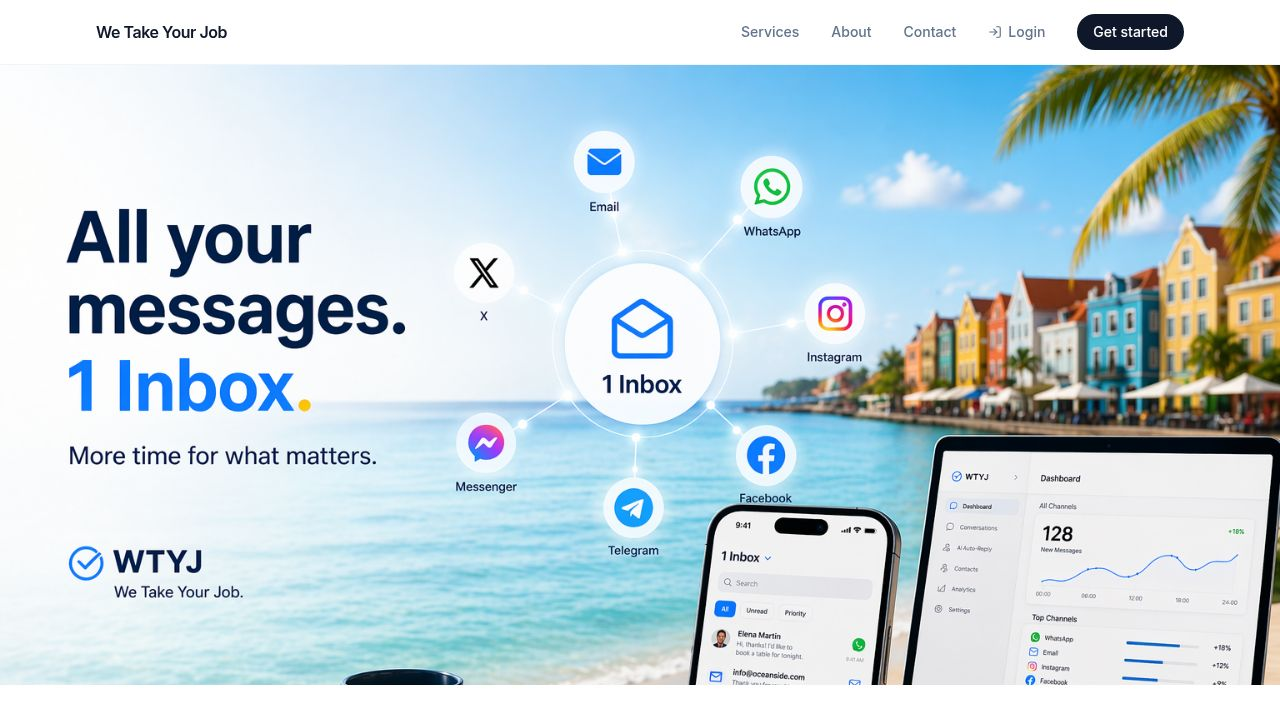
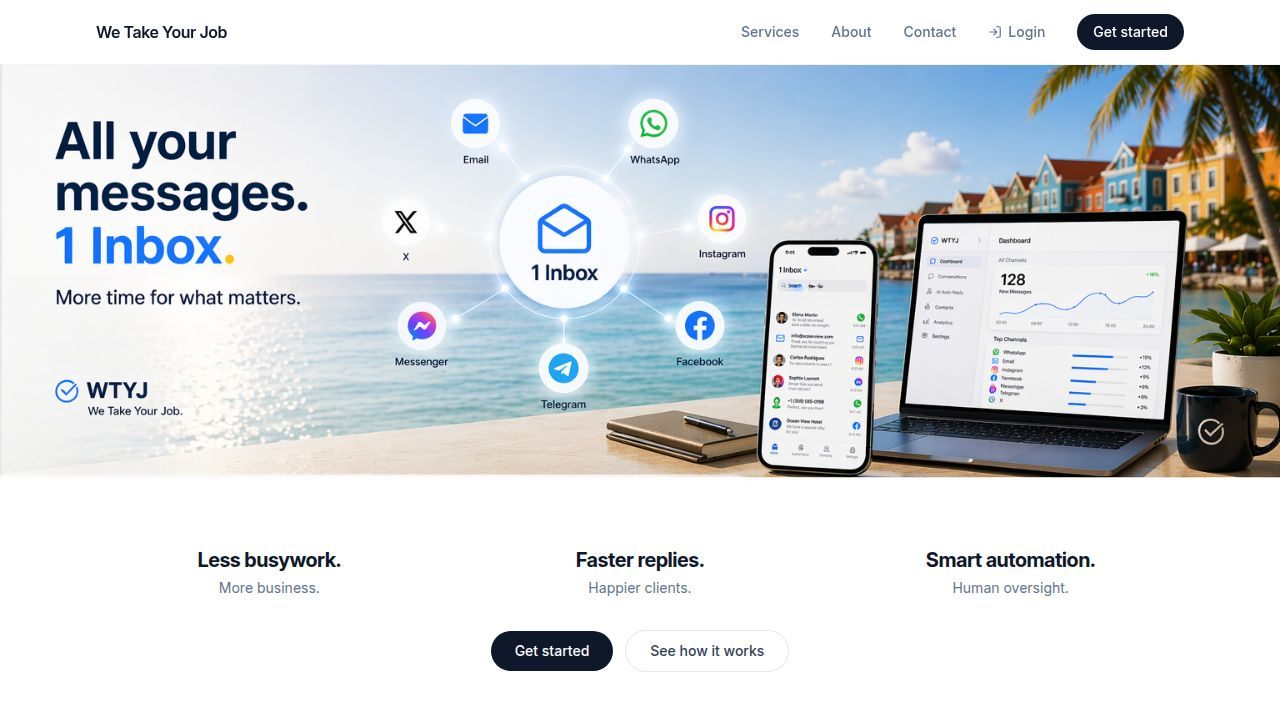
Improve homepage flow and reduce white space for a cohesive campaign feel
Restructure the HomePage component to integrate sections, reduce gaps, and enhance visual storytelling, moving the "More time. More clients. More life." statement higher and adding a clear CTA before the footer.

Replit-Commit-Author: Agent
Replit-Commit-Session-Id: 08e2b3a7-a9eb-4cfd-b304-9048fec0dca6
Replit-Commit-Checkpoint-Type: full_checkpoint
Replit-Commit-Event-Id: 7f1c7958-072e-4f59-8a27-320793cb8721
Replit-Commit-Screenshot-Url: https://storage.googleapis.com/screenshot-production-us-central1/296fe101-68fd-4241-8d09-92c4bfb12f04/08e2b3a7-a9eb-4cfd-b304-9048fec0dca6/kCiwkWl
Replit-Helium-Checkpoint-Created: true

diff --git a/artifacts/wetakeyourjob/src/pages/HomePage.tsx b/artifacts/wetakeyourjob/src/pages/HomePage.tsx
@@ -6,7 +6,7 @@ export default function HomePage() {
     <>
       <Seo />
 
-      {/* ── SECTION 1 — HERO ─────────────────────────────────────── */}
+      {/* ── HERO ─────────────────────────────────────────────────── */}
       <section className="w-full bg-[#edf5fb]" data-testid="hero-panel">
         <h1 className="sr-only" data-testid="hero-title">
           All your messages. 1 Inbox.
@@ -22,32 +22,41 @@ export default function HomePage() {
         />
       </section>
 
-      {/* ── SECTION 2 — SUPPORTING BRAND STRIP ───────────────────── */}
-      <section className="bg-white py-10 sm:py-14">
-        <div className="wrap mx-auto max-w-3xl text-center">
-          <p
-            className="mb-6 text-lg text-slate-500 sm:text-xl leading-relaxed"
-            data-testid="hero-subtitle"
-          >
-            Less busywork. More business.<br className="hidden sm:inline" />
-            {' '}Faster replies. Happier clients.<br className="hidden sm:inline" />
-            {' '}Smart automation. Human oversight.
-          </p>
-          <div className="flex flex-wrap items-center justify-center gap-3">
+      {/* ── VALUE PROPOSITION ────────────────────────────────────── */}
+      <section className="bg-white py-12 sm:py-16">
+        <div className="wrap mx-auto max-w-4xl">
+          <div className="grid gap-6 sm:grid-cols-3 text-center">
+            <div>
+              <h2 className="text-lg font-bold text-slate-900 sm:text-xl">Less busywork.</h2>
+              <p className="mt-1 text-sm text-slate-500" data-testid="hero-subtitle">More business.</p>
+            </div>
+            <div>
+              <h2 className="text-lg font-bold text-slate-900 sm:text-xl">Faster replies.</h2>
+              <p className="mt-1 text-sm text-slate-500">Happier clients.</p>
+            </div>
+            <div>
+              <h2 className="text-lg font-bold text-slate-900 sm:text-xl">Smart automation.</h2>
+              <p className="mt-1 text-sm text-slate-500">Human oversight.</p>
+            </div>
+          </div>
+          <div className="mt-8 flex flex-wrap items-center justify-center gap-3">
             <Button to="/contact" data-testid="button-hero-cta">Get started</Button>
             <Button to="/services" variant="secondary" data-testid="button-hero-services">See how it works</Button>
           </div>
         </div>
       </section>
 
-      {/* ── SECTION 3 — SUPPORTING PANELS ────────────────────────── */}
-      <section className="bg-slate-50/60 py-16 sm:py-20">
+      {/* ── PANEL SHOWCASE ───────────────────────────────────────── */}
+      <section className="bg-slate-50 py-12 sm:py-16">
         <div className="wrap">
-          <div className="grid gap-4 sm:grid-cols-2 lg:grid-cols-3">
+          <p className="mb-8 text-center text-[11px] font-semibold uppercase tracking-widest text-slate-400">
+            What we handle for you
+          </p>
+          <div className="grid gap-3 sm:grid-cols-2 lg:grid-cols-3">
             <img
               src="/wtyj_panel_inbox.png"
               alt="One Inbox. Every Channel. Total Control."
-              className="w-full h-auto rounded-2xl"
+              className="w-full h-auto rounded-xl shadow-sm"
               width="512"
               height="250"
               loading="lazy"
@@ -55,7 +64,7 @@ export default function HomePage() {
             <img
               src="/wtyj_panel_busywork.png"
               alt="Less busywork. More business."
-              className="w-full h-auto rounded-2xl"
+              className="w-full h-auto rounded-xl shadow-sm"
               width="512"
               height="230"
               loading="lazy"
@@ -63,15 +72,17 @@ export default function HomePage() {
             <img
               src="/wtyj_panel_replies.png"
               alt="Faster replies. Happier clients. Stronger reputation."
-              className="w-full h-auto rounded-2xl"
+              className="w-full h-auto rounded-xl shadow-sm"
               width="512"
               height="230"
               loading="lazy"
             />
+          </div>
+          <div className="mt-3 grid gap-3 sm:grid-cols-2 lg:max-w-[66.8%] lg:mx-auto">
             <img
               src="/wtyj_panel_24_7.png"
               alt="24/7 coverage. Every hour. Every day."
-              className="w-full h-auto rounded-2xl sm:col-span-1 lg:col-start-1"
+              className="w-full h-auto rounded-xl shadow-sm"
               width="512"
               height="250"
               loading="lazy"
@@ -79,7 +90,7 @@ export default function HomePage() {
             <img
               src="/wtyj_panel_languages.png"
               alt="All languages. One system."
-              className="w-full h-auto rounded-2xl"
+              className="w-full h-auto rounded-xl shadow-sm"
               width="512"
               height="250"
               loading="lazy"
@@ -88,18 +99,30 @@ export default function HomePage() {
         </div>
       </section>
 
-      {/* ── SECTION 4 — FINAL CTA ────────────────────────────────── */}
-      <section className="bg-white py-20 sm:py-28">
-        <div className="wrap mx-auto max-w-2xl text-center">
-          <h2 className="mb-5 text-3xl font-bold tracking-tight text-slate-900 leading-[1.1] sm:text-4xl lg:text-5xl">
-            More time. More clients.<br />More life.
+      {/* ── BIG BRAND STATEMENT ──────────────────────────────────── */}
+      <section className="bg-white py-16 sm:py-24">
+        <div className="wrap mx-auto max-w-3xl text-center">
+          <h2 className="text-4xl font-bold tracking-tight text-slate-900 leading-[1.1] sm:text-5xl lg:text-6xl">
+            More time.<br />More clients.<br />More life.
           </h2>
-          <p className="mb-8 text-lg text-slate-500">
+          <p className="mx-auto mt-5 max-w-md text-lg text-slate-500 leading-relaxed">
             All your messages. 1 Inbox. More time for what matters.
+          </p>
+        </div>
+      </section>
+
+      {/* ── CTA ──────────────────────────────────────────────────── */}
+      <section className="bg-slate-900 py-16 sm:py-20">
+        <div className="wrap mx-auto max-w-2xl text-center">
+          <h2 className="mb-3 text-2xl font-bold tracking-tight text-white sm:text-3xl">
+            Ready to take back your time?
+          </h2>
+          <p className="mb-8 text-base text-slate-400">
+            Less noise. More business. Let's talk.
           </p>
           <div className="flex flex-wrap items-center justify-center gap-3">
             <Button to="/contact">Get started</Button>
-            <Button to="/services" variant="secondary">See how it works</Button>
+            <Button to="/services" variant="secondary" className="border-slate-700 text-slate-300 hover:bg-slate-800">See how it works</Button>
           </div>
         </div>
       </section>
